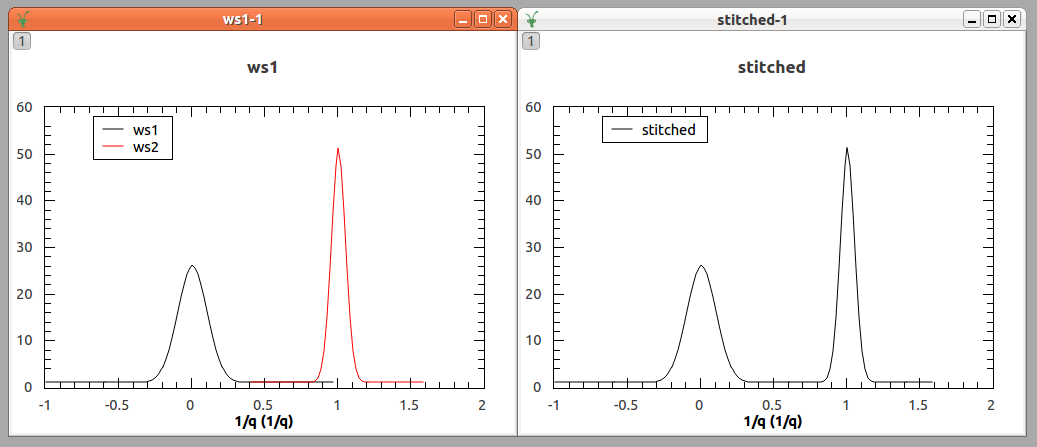
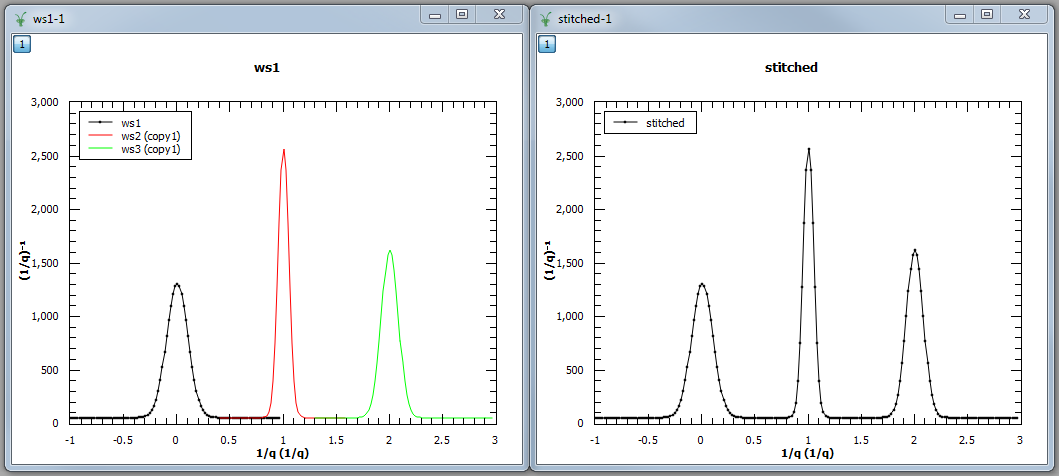
Re #17819 Updated documentation for the algorithm

diff --git a/docs/source/algorithms/Stitch1DMany-v1.rst b/docs/source/algorithms/Stitch1DMany-v1.rst
@@ -23,9 +23,15 @@ The workspaces must be histogrammed. Use
 :ref:`algm-ConvertToHistogram` on workspaces prior to
 passing them to this algorithm.
 
+This algorithm is also capable of stitching together matrix workspaces
+from multiple workspace groups. In this case, each group must contain the
+same number of workspaces. The algorithm will stitch together the workspaces
+in the first group before stitching workspaces from the next group on top
+of the previous ones.
+
 Usage
 -----
-**Example - a basic example using Stitch1DMany to stitch two workspaces together.**
+**Example - a basic example using Stitch1DMany to stitch three workspaces together.**
 
 .. testcode:: ExStitch1DManySimple
 
@@ -38,12 +44,14 @@ Usage
     #create two histograms with a single peak in each one
     x1 = np.arange(-1, 1, 0.02)
     x2 = np.arange(0.4, 1.6, 0.02)
+    x3 = np.arange(1.3, 3, 0.02)
     ws1 = CreateWorkspace(UnitX="1/q", DataX=x1, DataY=gaussian(x1[:-1], 0, 0.1)+1)
     ws2 = CreateWorkspace(UnitX="1/q", DataX=x2, DataY=gaussian(x2[:-1], 1, 0.05)+1)
+    ws3 = CreateWorkspace(UnitX="1/q", DataX=x3, DataY=gaussian(x3[:-1], 2, 0.08)+1)
 
     #stitch the histograms together
-    workspaces = ws1.name() + "," + ws2.name()
-    stitched, scale = Stitch1DMany(InputWorkspaces=workspaces, StartOverlaps=[0.4], EndOverlaps=[0.6], Params=[0.02])
+    workspaces = ws1.name() + "," + ws2.name() + "," + ws3.name()
+    stitched, scale = Stitch1DMany(InputWorkspaces=workspaces, StartOverlaps=[0.4, 1.2], EndOverlaps=[0.6, 1.4], Params=[0.02])
 
 Output:
 
@@ -52,18 +60,41 @@ Output:
    :alt: Stitch1D output
    :align: center
 
-**Example - a practical example using reflectometry data and a scale factor.**
+**Example - another example using three group workspaces of two workspaces each.**
 
 .. testcode:: ExStitch1DPractical
 
-  trans1 = Load('INTER00013463')
-  trans2 = Load('INTER00013464')
+    import numpy as np
 
-  trans1_wav = CreateTransmissionWorkspaceAuto(trans1)
-  trans2_wav = CreateTransmissionWorkspaceAuto(trans2)
+    def gaussian(x, mu, sigma):
+      """Creates a gaussian peak centered on mu and with width sigma."""
+      return (1/ sigma * np.sqrt(2 * np.pi)) * np.exp( - (x-mu)**2  / (2*sigma**2))
 
-  workspaces = trans1_wav.name() + ',' + trans2_wav.name()
-  stitched_wav, y = Stitch1DMany(workspaces, params='1, 0.05, 17', UseManualScaleFactor=True, ManualScaleFactor=0.85)
+    # create six histograms with a single peak in each one
+    x1 = np.arange(-1, 1, 0.02)
+    x3 = np.arange(0.3, 1.8, 0.02)
+    x5 = np.arange(1.4, 2.8, 0.02)
+    x2 = np.arange(2.4, 3.5, 0.02)
+    x4 = np.arange(3.2, 4.9, 0.02)
+    x6 = np.arange(4.5, 5.2, 0.02)
+    ws1 = CreateWorkspace(UnitX="1/q", DataX=x1, DataY=gaussian(x1[:-1], 0, 0.1)+1)
+    ws3 = CreateWorkspace(UnitX="1/q", DataX=x3, DataY=gaussian(x3[:-1], 1, 0.05)+1)
+    ws5 = CreateWorkspace(UnitX="1/q", DataX=x5, DataY=gaussian(x5[:-1], 2, 0.12)+1)
+    ws2 = CreateWorkspace(UnitX="1/q", DataX=x2, DataY=gaussian(x2[:-1], 3, 0.08)+1)
+    ws4 = CreateWorkspace(UnitX="1/q", DataX=x4, DataY=gaussian(x4[:-1], 4, 0.06)+1)
+    ws6 = CreateWorkspace(UnitX="1/q", DataX=x6, DataY=gaussian(x6[:-1], 5, 0.04)+1)
+
+    # Group first, second and third pairs of workspaces
+    groupWSNames1 = ws1.name() + "," + ws2.name()
+    gws1 = GroupWorkspaces(InputWorkspaces=groupWSNames1)
+    groupWSNames2 = ws3.name() + "," + ws4.name()
+    gws2 = GroupWorkspaces(InputWorkspaces=groupWSNames2)
+    groupWSNames3 = ws5.name() + "," + ws6.name()
+    gws3 = GroupWorkspaces(InputWorkspaces=groupWSNames3)
+
+    # Stitch together workspaces from each group
+    workspaceNames = gws1.name() + "," + gws2.name() + "," + gws3.name()
+    stitched, scale = Stitch1DMany(InputWorkspaces=workspaceNames, StartOverlaps=[0.3, 1.4], EndOverlaps=[3.3, 4.6], Params=[0.02])
 
 Output:
 
